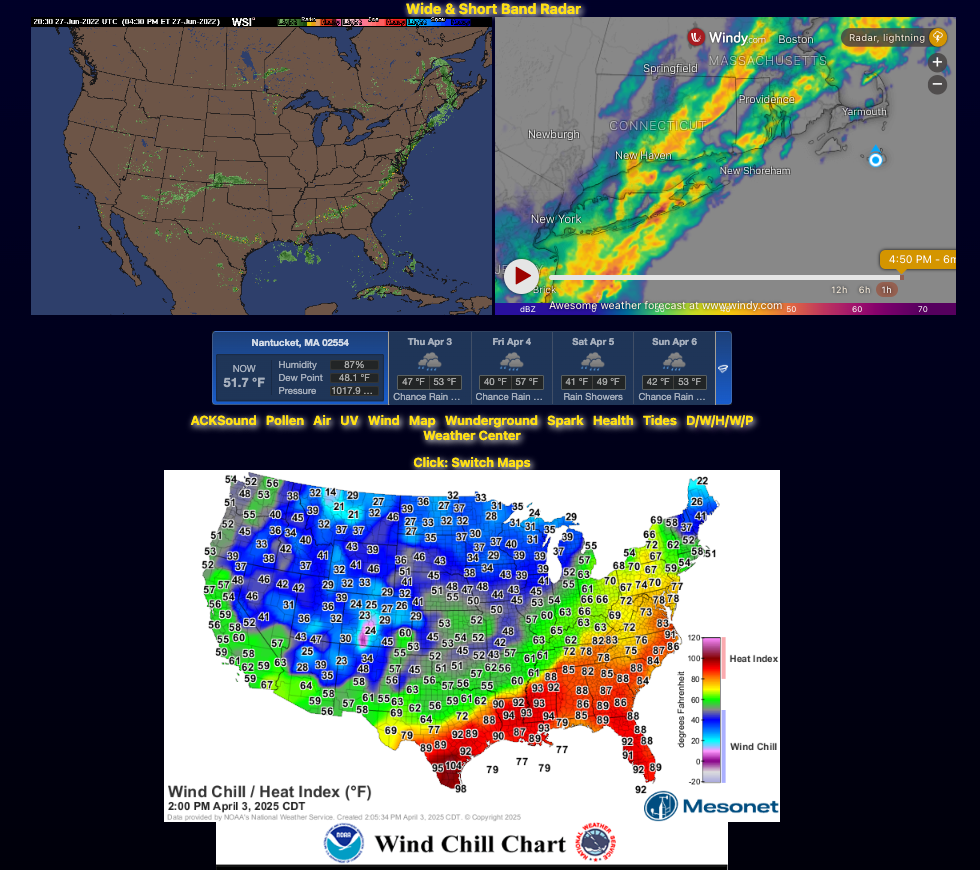
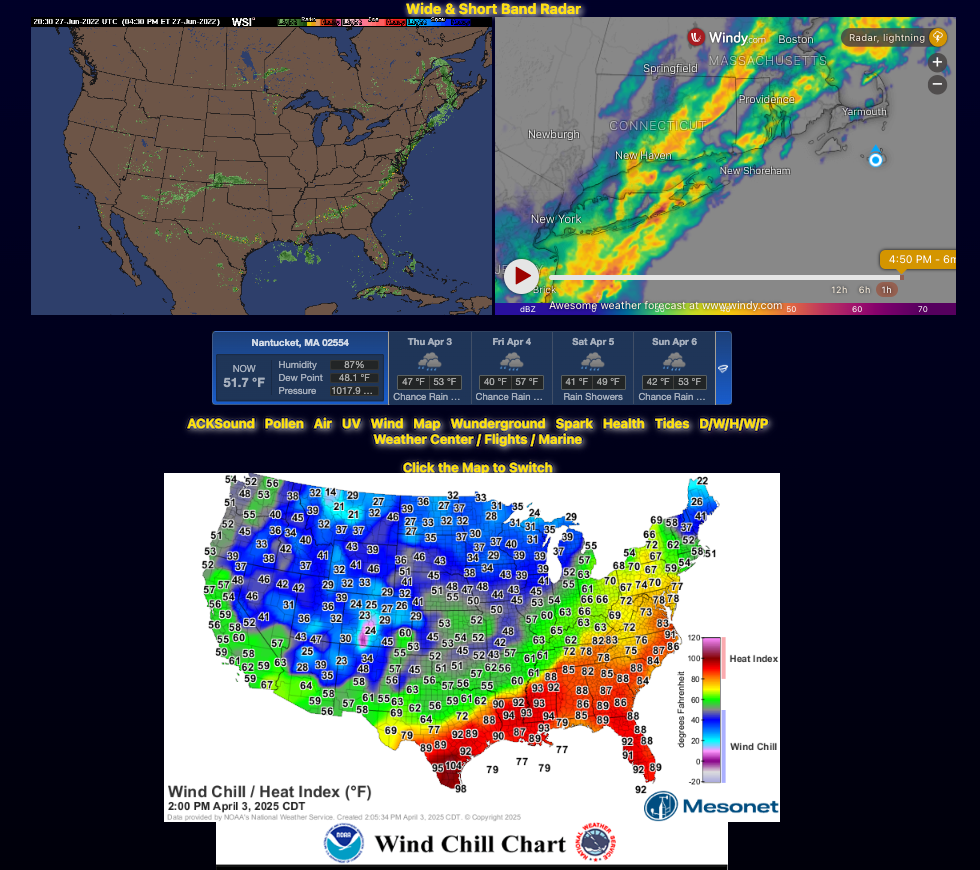
GPS tracking
This update includes flight and marine time traffic monitoring links

Changed region(s): [[0.1837, 0.4655, 0.7959, 0.5586]]

diff --git a/weather.html b/weather.html
@@ -19,16 +19,14 @@
 		} 
 		body { background: black; color: rgb(255,224,19); text-shadow: 2px 2px 8px #79498b; font-weight: bold; font-family: system-ui }
 		A:visited, A:link, A:active  { text-decoration: none; color: rgb(255,224,19); text-shadow: 2px 2px 8px #ffffff }
-
 	</style>
     <script language="JavaScript" type="text/JavaScript">
-	var q=0;
-	function swapImage(){
+	  var q=0;
+	  function swapImage(){
 		if(q==0){ document.getElementById("wordsearch").setAttribute('src','https://data.mesonet.org/data/public/noaa/metar/maps/realtime/latest.relh.png?cache_bust=1789318947132'); q++; }
 		else{ document.getElementById("wordsearch").setAttribute('src','https://data.mesonet.org/data/public/noaa/metar/maps/realtime/latest.tapp.png?cache_bust=1789318959689'); q--; }
-	}
+	  }
 	</script>
-
  </head>
  <body>
   <div class="centerStuff";>
@@ -57,11 +55,12 @@
 		 &nbsp; <a title="US Gov Drought Map" target="_blank" href="https://droughtmonitor.unl.edu/">D</a>/<a title="Wind-Chill" target="_blank" href="http://hp2.wright-weather.com/icons/us_chill.gif">W</a>/<a title="Heat Map" target="_blank" href="https://vortex.plymouth.edu/mapwall/forecast/model_loop.html?model=HRRR&prod_name=2mt-na">H</a>/<a title="Wind Map" target="_blank" href="https://vortex.plymouth.edu/mapwall/forecast/model_loop.html?model=NAM&prod_name=850-na">W</a>/<a title="Marine Port Traffic Map" target="_blank" href="https://www.flightradar24.com/41.50,-70.45/10">P</a>
 		 <br>
 		 <a title="NHS Weather Center Station" target="_weathercenter" href="https://owc.enterprise.earthnetworks.com/OnlineWeatherCenter.aspx?aid=8476">Weather Center</a> / 
-		 <a title="Flight Radar" target="_radar" href="https://www.flightradar24.com/RPA4431/4169b8d7">Flights</a>
+		 <a title="Flight Radar" target="_radarF" href="https://www.flightradar24.com/RPA4431/4169b8d7">Flights</a> /
+		 <a title="Marine GPS Radar Tracker" target="_radarM" href="https://www.marinetraffic.com/en/ais/home/centerx:-70.1/centery:41.4/zoom:10">Marine</a>
     </span><br>
 	
 		<div style="color: rgb(255,224,19); text-shadow: 2px 2px 8px #ffffff">Click the Map to Switch<br>
-			<img id="wordsearch" src="https://data.mesonet.org/data/public/noaa/metar/maps/realtime/latest.tapp.png?cache_bust=1789318959689" onclick="swapImage()" title="Maps: Wind Chill/Heat + Relative Humidty"/>	
+			<img id="wordsearch" src="https://data.mesonet.org/data/public/noaa/metar/maps/realtime/latest.tapp.png?cache_bust=1789318959689" onclick="swapImage()" title="Maps: Wind Chill/Heat + Relative Humidty"/>
 		</div>
 		<a target="_windchill" href="https://www.weather.gov/safety/cold-wind-chill-chart"><img src="https://www.weather.gov/images/safety/windchill21.gif" title="NOAA's Wind-Chill Guide"></a>
   </div>

diff --git a/README.md b/README.md
@@ -13,6 +13,7 @@ Extra features:
 
 	-Data is refreshed every 10 minutes
 	-Dolpar / Lightning Radar
+	-Flight and Marine GPS Tracking
     -Current weather conditions with four day forcast with more detailed if you click on the date
 	-Interactive Maps that show everything and are adjustable for location
     -Interactive Forcast: Click to toggle Heat/Wind Chill Map <-> Relative Humidty Map
